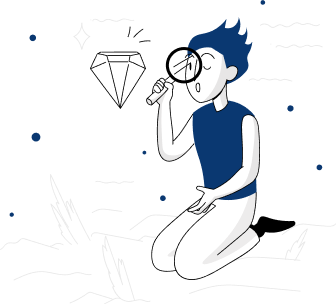
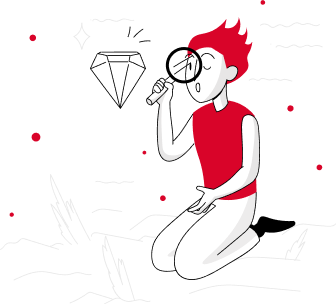
Encriptacion, desencriptacion y estilo propio

diff --git a/script.js b/script.js
@@ -3,43 +3,104 @@ let textoEncriptado;
 let textoDesencriptado;
 let estadoTexto;
 let textoIngresado;
-let tarjetaResultado = document.querySelector(".card_output");
-let contenedorMensaje = document.querySelector(".container_mensaje");
-let imagen = document.getElementById("imagen");
-let titulo = document.getElementById("titulo_mensaje");
-let resultado = document.getElementById("texto_mensaje");
-let btnCopiar = document.getElementById("boton_copiar");
-
-
-
+const tarjetaResultado = document.querySelector(".card_output");
+const contenedorMensaje = document.querySelector(".container_mensaje");
+const imagen = document.getElementById("imagen");
+const titulo = document.getElementById("titulo_mensaje");
+const resultado = document.getElementById("texto_mensaje");
+const btnCopiar = document.getElementById("boton_copiar");
+const clavesEncriptado = {
+    'e': "enter",
+    'i': "imes",
+    'a': "ai",
+    'o': "ober",
+    'u': "ufat",
+};
+const clavesDesencriptado = {
+    'enter': "e",
+    "imes": "i",
+    "ai": "a",  
+    "ober": "o",
+    "ufat": "u",
+}
 //Funcione Principales 
 
 function encriptacion() {
 
     // Capturar dato de entrada
     textoIngresado = document.getElementById('ingreso_texto_campo').value;
+    textoIngresado = textoIngresado.trim();
 
-    if (textoIngresado != null){
+    if (textoIngresado != ''){
 
+        textoEncriptado = transformarTexto(textoIngresado, clavesEncriptado);
         cardResultSetting();
-
         disappearImage();
-
         settingTitle('Encriptado');
-
-        printTextResult(textoIngresado);
-
+        
+        //console.log(textoEncriptado);
+        printTextResult(textoEncriptado);
         showCoppyButton();
-    } 
+    } else {
+        cardResultReset();
+    }
 
     // Limpiar area texto
     limpiarCampoTexto();
 }
 
 
+function desencriptacion() {
+    // Capturar dato de entrada
+    textoIngresado = document.getElementById('ingreso_texto_campo').value;
+    textoIngresado = textoIngresado.trim();
+
+    if (textoIngresado != '') {
+
+        textoDesencriptado = transformarTexto(textoIngresado, clavesDesencriptado);
+        cardResultSetting();
+        disappearImage();
+        settingTitle('Desencriptado');
+        
+        //console.log(textoEncriptado);
+        printTextResult(textoDesencriptado);
+        showCoppyButton();
+    } else {
+        cardResultReset();
+    }
+
+    // Limpiar area texto
+    limpiarCampoTexto();
+}
+
+function transformarTexto(texto, reemplazos) {
+    let textoTransformado = texto;
+    
+    for (let [original, reemplazo] of Object.entries(reemplazos)) {
+      // Escapar caracteres especiales en la expresión regular
+      const regex = new RegExp(original.replace(/[.*+?^${}()|[\]\\]/g, '\\$&'), 'g');
+      textoTransformado = textoTransformado.replace(regex, reemplazo);
+    }
+    
+    return textoTransformado;
+}
+
+function copiarTexto() {
+    // Obtén el texto del párrafo
+    const parrafo = document.getElementById('texto_mensaje');
+    const texto = parrafo.innerText;
+
+    // Usa la API del Portapapeles para copiar el texto
+    navigator.clipboard.writeText(texto).then(() => {
+        cardResultReset();
+    }).catch(err => {
+        console.error('Error al copiar el texto: ', err);
+    });
+
+    console.log("se copió");
+}
 
 // otras funciones
-function encriptarTexto() {}
 
 // atributos en la tarjetaResultado
 function cardResultSetting(){
@@ -62,6 +123,28 @@ function cardResultSetting(){
     //contenedorMensaje.style.gap = "32px";
 }
 
+
+function cardResultReset(){
+    tarjetaResultado.style.display="block";
+    tarjetaResultado.style.flex = "none";
+    tarjetaResultado.style.alignItems="center";
+    tarjetaResultado.style.justifyContent= "center";
+    tarjetaResultado.style.placeContent= "center";
+    
+    contenedorMensaje.style.display = "flex";
+    contenedorMensaje.style.flexDirection= "column";
+    contenedorMensaje.style.justifyContent = "center";
+    contenedorMensaje.style.alignItems = "center";
+    contenedorMensaje.style.textAlign="center";
+
+    showImage();
+    titleReset();
+    containerMensajeReset();
+    textReset();
+    hideCoppyButton();
+    
+
+}
 // Cambiar el titulo del resultado
 function settingTitle(estadoTexto){
     titulo.innerHTML = `Mensaje ${estadoTexto}`
@@ -70,9 +153,39 @@ function settingTitle(estadoTexto){
     titulo.style.height = "100%";
 }
 
+function titleReset(){
+    titulo.innerHTML = "Ningún mensaje fue encontrado";
+    titulo.style.fontSize= "36px";
+    titulo.style.fontWeight = "700";
+    titulo.style.marginTop = "1rem";
+    titulo.style.fontFamily = "Inter";
+    titulo.style.textAlign = "center";
+    titulo.style.width = "100%";
+    titulo.style.height= "100%";
+}
+
+function textReset(){
+    resultado.innerHTML = "Ingresa el texto que desees encriptar o desencriptar.";
+    resultado.style.fontSize= "1rem";
+    resultado.style.fontWeight = "400";
+    resultado.style.fontFamily= "Inter";
+    resultado.style.marginTop = "1rem";
+    resultado.style.textAlign = "center";
+    resultado.style.color = "--color3";
+    resultado.style.width = "80%";
+    resultado.style.height = "70%";
+}
+
+function containerMensajeReset(){
+    contenedorMensaje.style.display = "flex";
+    contenedorMensaje.style.flexDirection = "column";
+    contenedorMensaje.style.alignItems = "center";
+    contenedorMensaje.style.textAlign="center";
+    contenedorMensaje.style.width= "100%";
+}
 // texto a imprimir de resultado
 function printTextResult(texto){
-    resultado.innerHTML = textoIngresado;
+    resultado.innerHTML = texto;
     resultado.style.fontSize= "1.5rem";
     resultado.style.textAlign = "left";
     resultado.style.width = "100%";
@@ -87,12 +200,19 @@ function disappearImage(){
     imagen.style.display = "none";
 }
 
+function showImage(){
+    imagen.style.display="block";
+}
 // Boton Copiar
 function showCoppyButton(){
     btnCopiar.style.display = "block";
     btnCopiar.style.with= "70%";
     btnCopiar.style.color= "--color2";
     btnCopiar.style.with = "100%";
+}
+
+function hideCoppyButton(){
+    btnCopiar.style.display = "none";
 }
 
 function limpiarCampoTexto(){ document.querySelector("#ingreso_texto_campo").value = null;}

diff --git a/index.html b/index.html
@@ -22,7 +22,7 @@
                     Solo letras en minusculas y sin acentos
                 </p>
                 <button onclick="encriptacion();" class="boton" id="boton_encriptar">Encriptar</button>
-                <button class="boton" id="boton_desencriptar">Desencriptar</button>
+                <button onclick="desencriptacion();" class="boton" id="boton_desencriptar">Desencriptar</button>
             </div>
         </div>
         <div class="container_output">
@@ -31,7 +31,7 @@
                     <img src="./assets/Muñeco.png" alt="Muñeco buscando mensaje" />
                 </div>
                 <div id="titulo_mensaje">
-                    <h2>Ningún mensaje fue encontrado</h3>
+                    <h2>Ningún mensaje fue encontrado</h2>
                 </div>
                 <div class="container_mensaje">
                     <div id="texto_mensaje">
@@ -39,13 +39,13 @@
                     </div>
                 </div>
                 <div id="container_boton_copiar">
-                    <button class="boton" id="boton_copiar" style="display: none;">Copiar</button>
+                    <button onclick="copiarTexto();" class="boton" id="boton_copiar" style="display: none;">Copiar</button>
                 </div>
             </div>
         </div>
     </main>
     <footer class="footer">
-        <p id="footer_texto">Cleymer Avila P. 2024</p>
+        <p id="footer_texto">Desarrollado por Cleymer Avila P. 2024</p>
     </footer>
 
     <script src="script.js" defer></script>

diff --git a/styles/styles.css b/styles/styles.css
@@ -1,8 +1,8 @@
 @import url('https://fonts.googleapis.com/css2?family=Inter:wght@100..900&display=swap');
 
 :root{
-    --color1: #EFF1FA;
-    --color2: #0A3871;
+    --color1: #e5e5e5;
+    --color2: #d90429;
     --color3: #495057;
     --color4: #343A40;
     --color5: #D8DFE8;
@@ -113,7 +113,7 @@ body{
     font-family: var(--fuente-inter);
     font-weight: 400;
     font-size: 0.75rem;
-    color: var(--color2);
+    color: var(--color3);
     width: 100%;
     height: 100%;
     margin: 0;
@@ -142,6 +142,7 @@ body{
     text-align: center;
     cursor: pointer;
     text-align: center;
+    transition: background-color 0.3s ease, transform 0.3s ease;
 }
 
 #boton_encriptar{
@@ -158,6 +159,15 @@ body{
     background-color: var(--color5);
     color: var(--color2);
     font-family: var(--fuente-inter);
+}
+
+#boton_desencriptar:hover{
+    color: #fff;
+    background-color: #f72634;
+}
+
+.boton:hover{
+    transform: scale(1.1);
 }
 
 #imagen{
